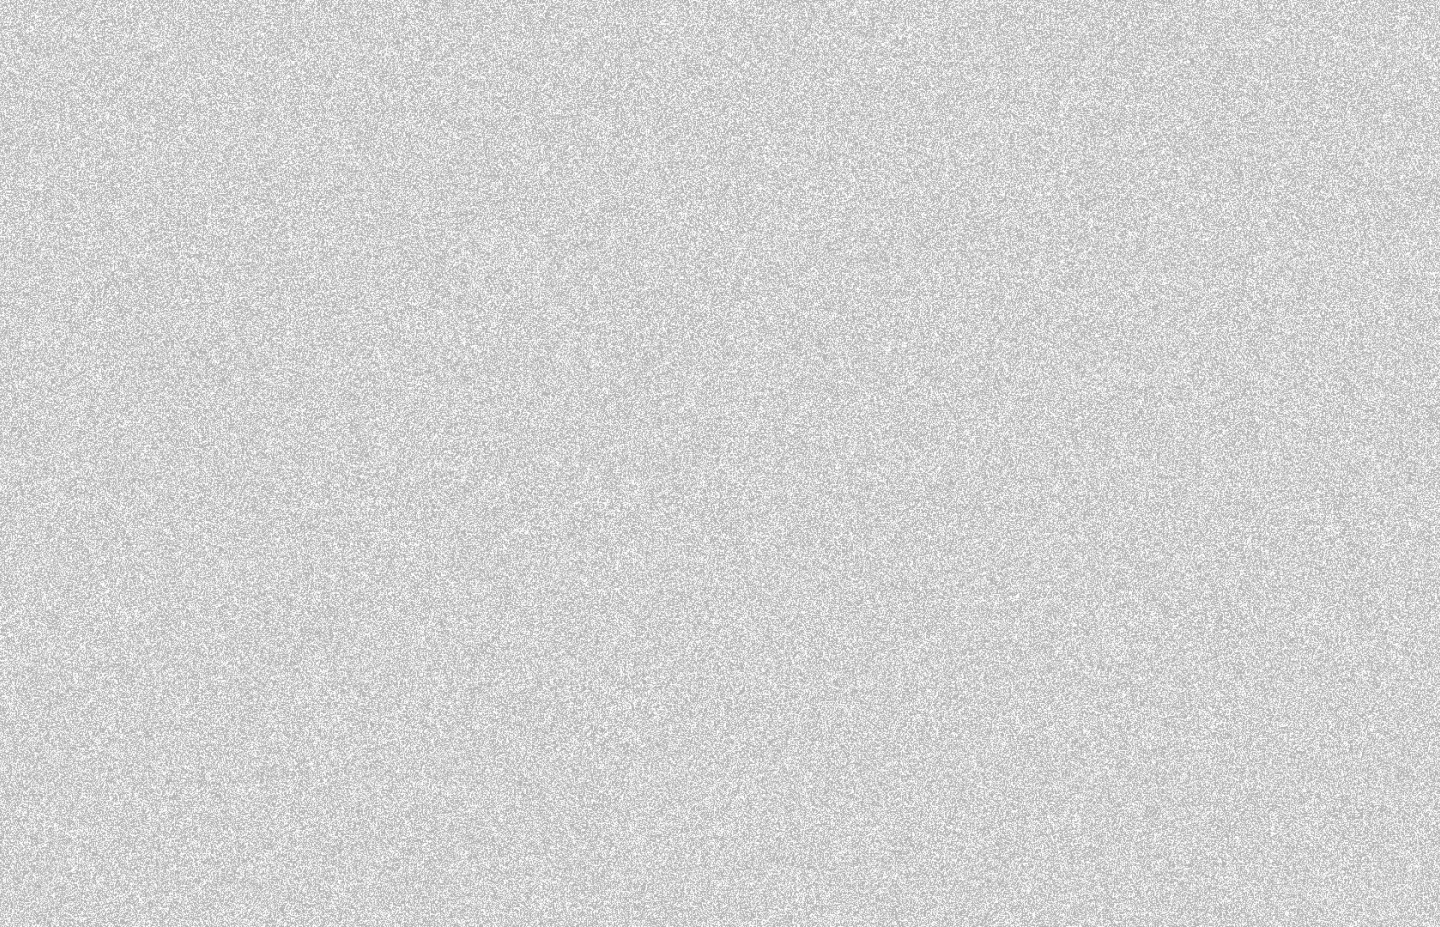
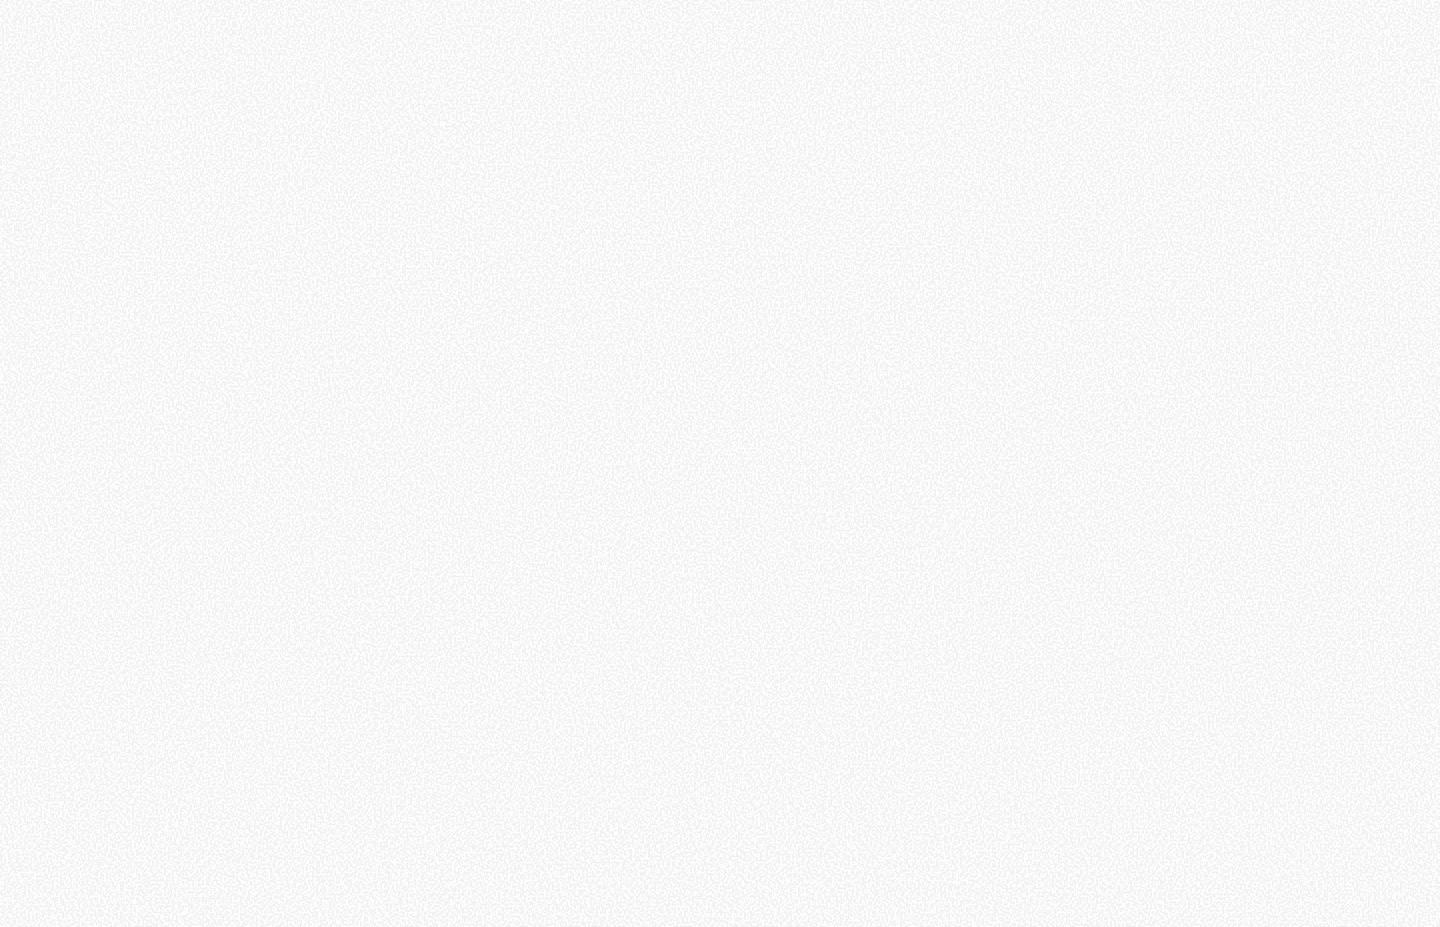
feat: juices description and prices

diff --git a/src/components/Juices.tsx b/src/components/Juices.tsx
@@ -1,0 +1,71 @@
+import { juiceLists, mockTailLists } from "../../constants";
+import gsap from "gsap";
+import { useGSAP } from "@gsap/react";
+
+function Juices() {
+  useGSAP((context) => {
+    const parallaxTimeline = gsap.timeline({
+      scrollTrigger: {
+        trigger: "#juices",
+        start: "top 30%",
+        end: "bottom 80%",
+        scrub: true,
+      },
+    });
+    parallaxTimeline.from("#c-left-leaf", {
+      x: -100,
+      y: 100,
+    });
+    parallaxTimeline.from("#c-right-leaf", {
+      x: 100,
+      y: 100,
+    });
+    console.log(context.data.length);
+  }, []);
+  return (
+    <section id="juices" className="noisy">
+      <img src="images/cocktail-left-leaf.png" alt="l-leaf" id="c-left-leaf" />
+      <img
+        src="images/cocktail-right-leaf.png"
+        alt="r-leaf"
+        id="c-right-leaf"
+      />
+      <div className="list">
+        <div className="popular">
+          <h2>Most Popular Juices</h2>
+          <ul>
+            {juiceLists.map((juice) => (
+              <li key={juice.name}>
+                <div className="me-28">
+                  <h3>{juice.name}</h3>
+                  <p>
+                    {juice.country} | {juice.detail}
+                  </p>
+                </div>
+                <span>- {juice.price}</span>
+              </li>
+            ))}
+          </ul>
+        </div>
+        <div className="loved">
+          <h2>Most loved Juices</h2>
+          <ul>
+            {mockTailLists.map((juice) => (
+              <li key={juice.name}>
+                <div className="me-28">
+                  <h3>{juice.name}</h3>
+                  <p>
+                    {juice.country} | {juice.detail}
+                  </p>
+                </div>
+                <span>- {juice.price}</span>
+              </li>
+            ))}
+          </ul>
+        </div>
+      </div>
+    </section>
+  );
+}
+
+export default Juices;

diff --git a/src/components/Hero.tsx b/src/components/Hero.tsx
@@ -1,8 +1,12 @@
 import gsap from "gsap";
 import { useGSAP } from "@gsap/react";
 import { SplitText } from "gsap/SplitText";
+import { useRef } from "react";
+import { useMediaQuery } from "react-responsive";
 
 function Hero() {
+  const videoRef = useRef<HTMLVideoElement>(null);
+  const isMobile = useMediaQuery({ maxWidth: 768 });
   useGSAP(() => {
     const heroSplit = new SplitText(".title", { type: "chars, words" });
     const paragraphSplit = new SplitText(".subtitle", { type: "lines" });
@@ -44,6 +48,36 @@ function Hero() {
         },
         0,
       );
+    const startValue = isMobile ? "top 50%" : "center 60%";
+    const endValue = isMobile ? "150% top" : "bottom top";
+
+    const tl = gsap.timeline({
+      scrollTrigger: {
+        trigger: "video",
+        start: startValue,
+        end: endValue,
+        scrub: true,
+        pin: true,
+      },
+    });
+
+    if (videoRef.current) {
+      videoRef.current.onloadedmetadata = () => {
+        tl.fromTo(
+          videoRef.current,
+          {
+            currentTime: 0,
+            opacity: 0.3,
+            scale: isMobile ? 1.1 : 1.3,
+          },
+          {
+            currentTime: videoRef.current!.duration,
+            opacity: 0.8,
+            scale: 1,
+          },
+        );
+      };
+    }
   }, []);
   return (
     <>
@@ -82,6 +116,15 @@ function Hero() {
           </div>
         </div>
       </section>
+      <div className="video absolute inset-0">
+        <video
+          src="/videos/output.mp4"
+          muted
+          playsInline
+          preload="auto"
+          ref={videoRef}
+        />
+      </div>
     </>
   );
 }

diff --git a/src/index.css b/src/index.css
@@ -8,7 +8,7 @@
 }
 
 @theme {
-    --color-green:       #185d27;
+    --color-green:       #1f7931;
     --color-white-100:   #efefef;
     --font-sans:         "Mona Sans", sans-serif;
     --font-modern-negra: "Modern Negra", sans-serif;
@@ -76,7 +76,7 @@ body {
         }
 
         a {
-            @apply cursor-pointer text-nowrap md:text-lg text-base;
+            @apply cursor-pointer text-nowrap md:text-lg text-base font-medium;
         }
 
         ul {
@@ -85,7 +85,7 @@ body {
     }
 
     .noisy {
-        @apply absolute inset-0 size-full bg-[url("/images/noise.jpg")];
+        @apply absolute inset-0 size-full bg-[url("/images/noise.png")];
     }
 
     #hero {
@@ -140,11 +140,11 @@ body {
         @apply relative min-h-dvh w-full overflow-hidden;
 
         #c-left-leaf {
-            @apply absolute left-0 md:bottom-0 md:top-auto -top-20 md:w-fit w-1/3;
+            @apply absolute left-0 bottom-0 top-auto md:w-fit w-1/3;
         }
 
         #c-right-leaf {
-            @apply absolute right-0 md:bottom-0 md:top-auto -top-20 md:w-fit w-1/3;
+            @apply absolute right-0 bottom-0 top-auto md:w-fit w-1/3;
         }
 
         .list {

diff --git a/src/components/Navbar.tsx b/src/components/Navbar.tsx
@@ -8,25 +8,33 @@ function Navbar() {
       scrollTrigger: {
         trigger: "nav",
         start: "bottom top",
-        scrub: true,
-        markers: true,
+        scrub: 0.5,
       },
     });
     navTween.fromTo(
       "nav",
-      { backgroundColor: "transparent" },
       {
-        backgroundColor: "#00000050",
-        backgroundFilter: "blur(10px)",
-        ease: "power1.inOut",
+        backgroundColor: "transparent",
+        pixi: {
+          blur: 0,
+        },
+        boxShadow: "none",
+      },
+      {
+        backgroundColor: "rgba(255,255,255,0.6)",
+        pixi: {
+          blur: 10,
+        },
+        boxShadow: "0 2px 10px rgba(0, 0, 0, 0.1)",
         duration: 1,
+        ease: "power1.inOut",
       },
     );
   });
   return (
     <nav>
       <div>
-        <a href="#home" className="flex items-center gap-2">
+        <a href="#hero" className="flex items-center gap-2">
           <img src="./images/logo.png" alt="Logo" className="w-8 h-8" />
           <p>Juicy Exhibition</p>
         </a>

diff --git a/src/App.tsx b/src/App.tsx
@@ -1,16 +1,20 @@
+import * as PIXI from "pixi.js";
 import { gsap } from "gsap";
 import { ScrollTrigger, SplitText } from "gsap/all";
+import { PixiPlugin } from "gsap/PixiPlugin";
 import Navbar from "./components/Navbar.tsx";
 import Hero from "./components/Hero.tsx";
+import Juices from "./components/Juices.tsx";
 
-gsap.registerPlugin(ScrollTrigger, SplitText);
+gsap.registerPlugin(ScrollTrigger, SplitText, PixiPlugin);
+PixiPlugin.registerPIXI(PIXI);
 
 function App() {
   return (
     <main>
       <Navbar />
       <Hero />
-      <div className="h-dvh"></div>
+      <Juices />
     </main>
   );
 }
